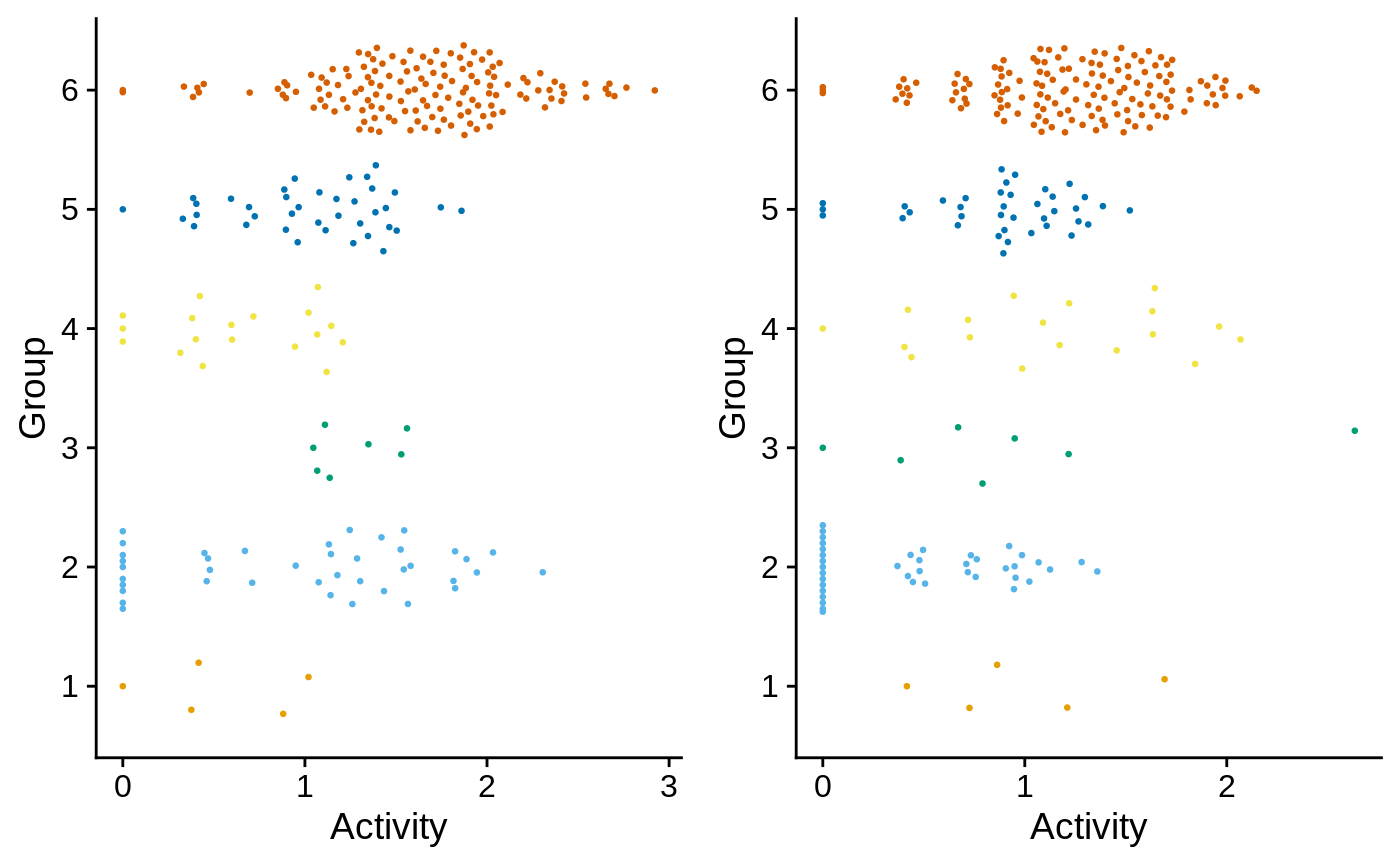
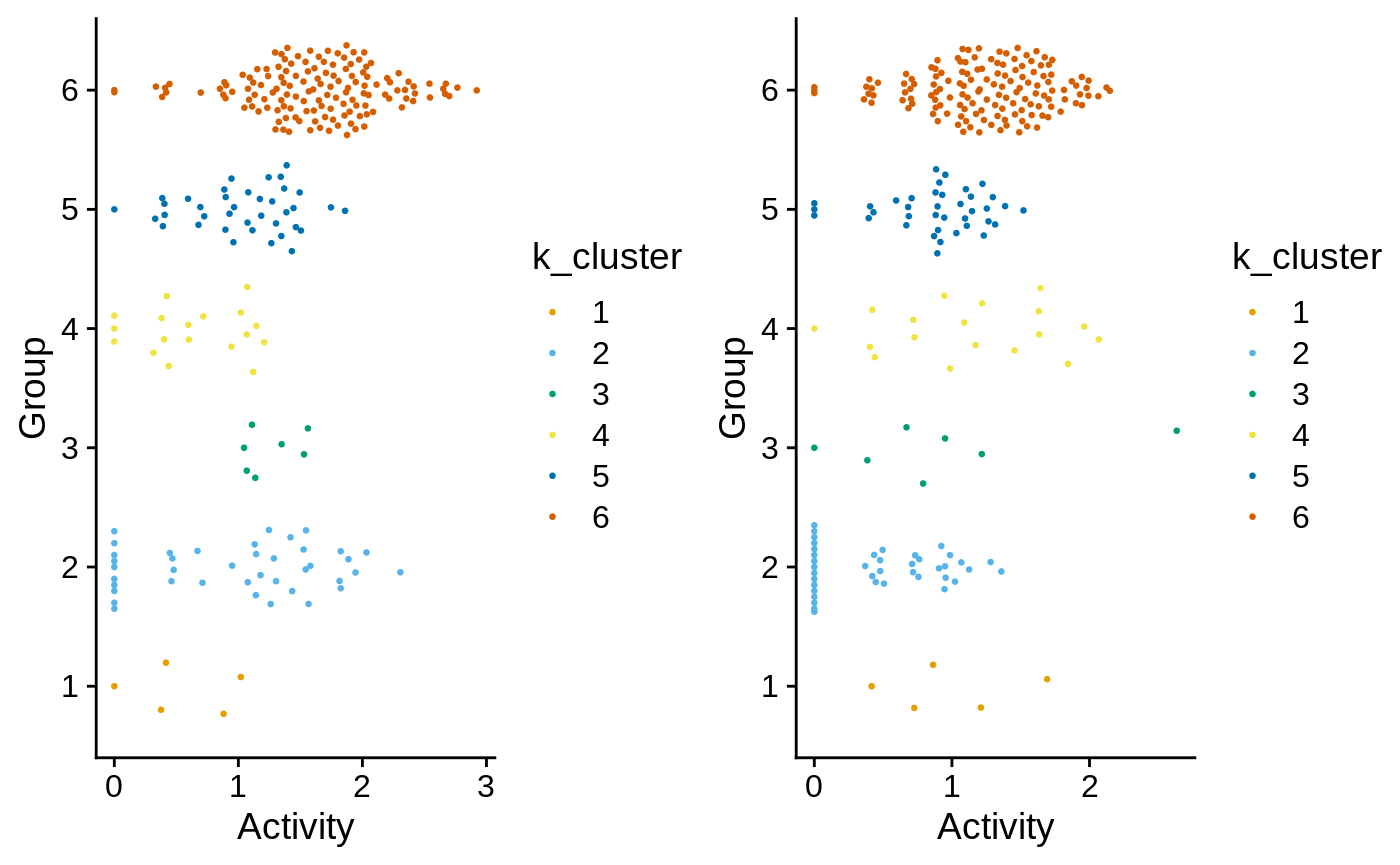
Built site for scrunchy: 0.0.0.9000@e6c25bc

diff --git a/reference/plot_dims.html b/reference/plot_dims.html
@@ -128,7 +128,8 @@ cluster assignments, and measured activities.</p>
     </div>
 
     <pre class="usage"><span class='fu'>plot_dims</span>(<span class='no'>df</span>, <span class='no'>x</span>, <span class='no'>y</span>, <span class='kw'>color</span> <span class='kw'>=</span> <span class='st'>"cell_id"</span>, <span class='kw'>size</span> <span class='kw'>=</span> <span class='fl'>0.1</span>, <span class='kw'>alpha</span> <span class='kw'>=</span> <span class='fl'>1</span>,
-  <span class='kw'>palette</span> <span class='kw'>=</span> <span class='st'>"cloupe"</span>, <span class='kw'>labels</span> <span class='kw'>=</span> <span class='kw'>NULL</span>)</pre>
+  <span class='kw'>palette</span> <span class='kw'>=</span> <span class='st'>"cloupe"</span>, <span class='kw'>labels</span> <span class='kw'>=</span> <span class='kw'>NULL</span>, <span class='kw'>label_legend</span> <span class='kw'>=</span> <span class='fl'>TRUE</span>,
+  <span class='kw'>label_groups</span> <span class='kw'>=</span> <span class='fl'>FALSE</span>)</pre>
     
     <h2 class="hasAnchor" id="arguments"><a class="anchor" href="#arguments"></a>Arguments</h2>
     <table class="ref-arguments">
@@ -164,7 +165,15 @@ brewer, viridis.</p></td>
     </tr>
     <tr>
       <th>labels</th>
-      <td><p>labels for legend.</p></td>
+      <td><p>labels for groups</p></td>
+    </tr>
+    <tr>
+      <th>label_legend</th>
+      <td><p>add labels to legend</p></td>
+    </tr>
+    <tr>
+      <th>label_groups</th>
+      <td><p>add labels to points</p></td>
     </tr>
     </table>
     
@@ -175,8 +184,7 @@ retrieved with <code><a href='tidy_dims.html'>tidy_dims()</a></code>.</p>
     
     <h2 class="hasAnchor" id="see-also"><a class="anchor" href="#see-also"></a>See also</h2>
 
-    <div class='dont-index'><p>Other plotting: <code><a href='plot_activity.html'>plot_activity</a></code>,
-  <code><a href='plot_heatmap.html'>plot_heatmap</a></code></p></div>
+    <div class='dont-index'><p>Other plot functions: <code><a href='plot_activity.html'>plot_activity</a></code></p></div>
     
 
     <h2 class="hasAnchor" id="examples"><a class="anchor" href="#examples"></a>Examples</h2>
@@ -185,6 +193,8 @@ retrieved with <code><a href='tidy_dims.html'>tidy_dims()</a></code>.</p>
 <span class='fu'>plot_dims</span>(<span class='no'>fsce_tidy</span>, <span class='no'>UMAP1</span>, <span class='no'>UMAP2</span>, <span class='no'>Uracil_45</span>, <span class='kw'>size</span> <span class='kw'>=</span> <span class='fl'>1</span>)</div><div class='img'><img src='plot_dims-3.png' alt='' width='700' height='433' /></div><div class='input'>
 <span class='fu'>plot_dims</span>(<span class='no'>fsce_tidy</span>, <span class='no'>UMAP1</span>, <span class='no'>UMAP2</span>, <span class='no'>k_cluster</span>, <span class='kw'>size</span> <span class='kw'>=</span> <span class='fl'>1</span>)</div><div class='img'><img src='plot_dims-4.png' alt='' width='700' height='433' /></div><div class='input'>
 <span class='fu'>plot_dims</span>(<span class='no'>fsce_tidy</span>, <span class='no'>UMAP1</span>, <span class='no'>UMAP2</span>, <span class='no'>k_cluster</span>, <span class='kw'>labels</span> <span class='kw'>=</span> <span class='no'>LETTERS</span>[<span class='fl'>1</span>:<span class='fl'>6</span>])</div><div class='img'><img src='plot_dims-5.png' alt='' width='700' height='433' /></div><div class='input'>
+<span class='fu'>plot_dims</span>(<span class='no'>fsce_tidy</span>, <span class='no'>UMAP1</span>, <span class='no'>UMAP2</span>, <span class='no'>k_cluster</span>,
+          <span class='kw'>labels</span> <span class='kw'>=</span> <span class='no'>LETTERS</span>[<span class='fl'>1</span>:<span class='fl'>6</span>], <span class='kw'>label_groups</span> <span class='kw'>=</span> <span class='fl'>TRUE</span>)</div><div class='img'><img src='plot_dims-6.png' alt='' width='700' height='433' /></div><div class='input'>
 </div></pre>
   </div>
   <div class="col-md-3 hidden-xs hidden-sm" id="sidebar">

diff --git a/articles/scrunchy.html b/articles/scrunchy.html
@@ -305,11 +305,11 @@
 <pre><code>## List of length 3
 ## names(3): PCA UMAP TSNE</code></pre>
 <div class="sourceCode" id="cb50"><pre class="sourceCode r"><code class="sourceCode r"><a class="sourceLine" id="cb50-1" data-line-number="1"><span class="kw"><a href="https://www.rdocumentation.org/packages/SingleCellExperiment/topics/SCE-reducedDims">reducedDims</a></span>(fsce[[<span class="st">"rnaseq"</span>]])<span class="op">$</span>UMAP[<span class="dv">1</span><span class="op">:</span><span class="dv">4</span>, ]</a></code></pre></div>
-<pre><code>##                      [,1]       [,2]
-## TGCGGGTTCAACTCTT 2.878584 -5.0904234
-## TGGTTCCTCCCAAGAT 3.956443 -4.9584484
-## CATATTCCATGCCCGA 3.524757 -2.7890872
-## TCACAAGTCTCCAACC 1.061655  0.5823903</code></pre>
+<pre><code>##                        [,1]       [,2]
+## TGCGGGTTCAACTCTT -0.7056742 -3.1788763
+## TGGTTCCTCCCAAGAT  0.0289938 -3.8062140
+## CATATTCCATGCCCGA  0.1522357 -0.9630351
+## TCACAAGTCTCCAACC  4.5660902 -0.5486145</code></pre>
 </div>
 <div id="tidying-data-for-analysis-and-plotting" class="section level1">
 <h1 class="hasAnchor">
@@ -360,10 +360,10 @@
 <div class="sourceCode" id="cb68"><pre class="sourceCode r"><code class="sourceCode r"><a class="sourceLine" id="cb68-1" data-line-number="1">fsce_tidy &lt;-<span class="st"> </span>purrr<span class="op">::</span><span class="kw"><a href="https://purrr.tidyverse.org/reference/reduce.html">reduce</a></span>(</a>
 <a class="sourceLine" id="cb68-2" data-line-number="2">  <span class="kw"><a href="https://www.rdocumentation.org/packages/base/topics/list">list</a></span>(</a>
 <a class="sourceLine" id="cb68-3" data-line-number="3">    <span class="kw"><a href="../reference/tidy_dims.html">tidy_dims</a></span>(fsce_small) <span class="op">%&gt;%</span></a>
-<a class="sourceLine" id="cb68-4" data-line-number="4"><span class="st">      </span><span class="kw"><a href="http://dplyr.tidyverse.org/reference/select.html">select</a></span>(cell_id, <span class="kw"><a href="http://dplyr.tidyverse.org/reference/reexports.html">starts_with</a></span>(<span class="st">"UMAP"</span>), <span class="op">-</span>experiment),</a>
+<a class="sourceLine" id="cb68-4" data-line-number="4"><span class="st">      </span><span class="kw"><a href="https://dplyr.tidyverse.org/reference/select.html">select</a></span>(cell_id, <span class="kw"><a href="https://dplyr.tidyverse.org/reference/reexports.html">starts_with</a></span>(<span class="st">"UMAP"</span>), <span class="op">-</span>experiment),</a>
 <a class="sourceLine" id="cb68-5" data-line-number="5">    <span class="kw"><a href="../reference/tidy_coldata.html">tidy_coldata</a></span>(fsce_small),</a>
 <a class="sourceLine" id="cb68-6" data-line-number="6">    <span class="kw"><a href="../reference/tidy_logcounts.html">tidy_logcounts</a></span>(fsce_small[<span class="kw"><a href="https://www.rdocumentation.org/packages/base/topics/c">c</a></span>(<span class="st">"Uracil_45"</span>, <span class="st">"riboG_44"</span>), , ]) <span class="op">%&gt;%</span></a>
-<a class="sourceLine" id="cb68-7" data-line-number="7"><span class="st">      </span><span class="kw"><a href="http://dplyr.tidyverse.org/reference/select.html">select</a></span>(<span class="op">-</span>experiment)</a>
+<a class="sourceLine" id="cb68-7" data-line-number="7"><span class="st">      </span><span class="kw"><a href="https://dplyr.tidyverse.org/reference/select.html">select</a></span>(<span class="op">-</span>experiment)</a>
 <a class="sourceLine" id="cb68-8" data-line-number="8">  ),</a>
 <a class="sourceLine" id="cb68-9" data-line-number="9">  left_join,</a>
 <a class="sourceLine" id="cb68-10" data-line-number="10">  <span class="dt">by =</span> <span class="st">"cell_id"</span></a>

diff --git a/reference/plot_activity.html b/reference/plot_activity.html
@@ -125,7 +125,7 @@
     
     </div>
 
-    <pre class="usage"><span class='fu'>plot_activity</span>(<span class='no'>data</span>, <span class='no'>activity</span>, <span class='kw'>group</span> <span class='kw'>=</span> <span class='kw'>NULL</span>)</pre>
+    <pre class="usage"><span class='fu'>plot_activity</span>(<span class='no'>data</span>, <span class='no'>activity</span>, <span class='kw'>group</span> <span class='kw'>=</span> <span class='kw'>NULL</span>, <span class='kw'>labels</span> <span class='kw'>=</span> <span class='kw'>NULL</span>)</pre>
     
     <h2 class="hasAnchor" id="arguments"><a class="anchor" href="#arguments"></a>Arguments</h2>
     <table class="ref-arguments">
@@ -142,22 +142,20 @@
       <th>group</th>
       <td><p>grouping variable</p></td>
     </tr>
+    <tr>
+      <th>labels</th>
+      <td><p>legend labels</p></td>
+    </tr>
     </table>
     
     <h2 class="hasAnchor" id="see-also"><a class="anchor" href="#see-also"></a>See also</h2>
 
-    <div class='dont-index'><p>Other plotting: <code><a href='plot_dims.html'>plot_dims</a></code>,
-  <code><a href='plot_heatmap.html'>plot_heatmap</a></code></p></div>
+    <div class='dont-index'><p>Other plot functions: <code><a href='plot_dims.html'>plot_dims</a></code></p></div>
     
 
     <h2 class="hasAnchor" id="examples"><a class="anchor" href="#examples"></a>Examples</h2>
-    <pre class="examples"><div class='input'><span class='kw pkg'>cowplot</span><span class='kw ns'>::</span><span class='fu'><a href='https://www.rdocumentation.org/packages/cowplot/topics/plot_grid'>plot_grid</a></span>(
-  <span class='kw'>plotlist</span> <span class='kw'>=</span> <span class='fu'><a href='https://www.rdocumentation.org/packages/base/topics/list'>list</a></span>(
-    <span class='fu'><a href='plot_dims.html'>plot_dims</a></span>(<span class='no'>fsce_tidy</span>, <span class='no'>UMAP1</span>, <span class='no'>UMAP2</span>, <span class='no'>k_cluster</span>),
-    <span class='fu'>plot_activity</span>(<span class='no'>fsce_tidy</span>, <span class='no'>Uracil_45</span>, <span class='no'>k_cluster</span>),
-    <span class='fu'>plot_activity</span>(<span class='no'>fsce_tidy</span>, <span class='no'>riboG_44</span>, <span class='no'>k_cluster</span>)
-  )
-)</div><div class='img'><img src='plot_activity-1.png' alt='' width='700' height='433' /></div><div class='input'>
+    <pre class="examples"><div class='input'><span class='fu'>plot_activity</span>(<span class='no'>fsce_tidy</span>, <span class='no'>Uracil_45</span>, <span class='no'>k_cluster</span>)</div><div class='img'><img src='plot_activity-1.png' alt='' width='700' height='433' /></div><div class='input'>
+<span class='fu'>plot_activity</span>(<span class='no'>fsce_tidy</span>, <span class='no'>riboG_44</span>, <span class='no'>k_cluster</span>, <span class='kw'>labels</span> <span class='kw'>=</span> <span class='no'>LETTERS</span>[<span class='fl'>1</span>:<span class='fl'>6</span>])</div><div class='img'><img src='plot_activity-2.png' alt='' width='700' height='433' /></div><div class='input'>
 </div></pre>
   </div>
   <div class="col-md-3 hidden-xs hidden-sm" id="sidebar">

diff --git a/reference/plot_heatmap.html b/reference/plot_heatmap.html
@@ -144,11 +144,6 @@
     </tr>
     </table>
     
-    <h2 class="hasAnchor" id="see-also"><a class="anchor" href="#see-also"></a>See also</h2>
-
-    <div class='dont-index'><p>Other plotting: <code><a href='plot_activity.html'>plot_activity</a></code>,
-  <code><a href='plot_dims.html'>plot_dims</a></code></p></div>
-    
 
     <h2 class="hasAnchor" id="examples"><a class="anchor" href="#examples"></a>Examples</h2>
     <pre class="examples"><div class='input'><span class='no'>mtx</span> <span class='kw'>&lt;-</span> <span class='kw pkg'>SingleCellExperiment</span><span class='kw ns'>::</span><span class='fu'><a href='https://www.rdocumentation.org/packages/SingleCellExperiment/topics/SCE-assays'>logcounts</a></span>(<span class='no'>fsce_small</span><span class='kw'>[[</span><span class='st'>"haircut"</span>]])
@@ -161,9 +156,7 @@
     <h2>Contents</h2>
     <ul class="nav nav-pills nav-stacked">
       <li><a href="#arguments">Arguments</a></li>
-      
-      <li><a href="#see-also">See also</a></li>
-      
+            
       <li><a href="#examples">Examples</a></li>
     </ul>
 
